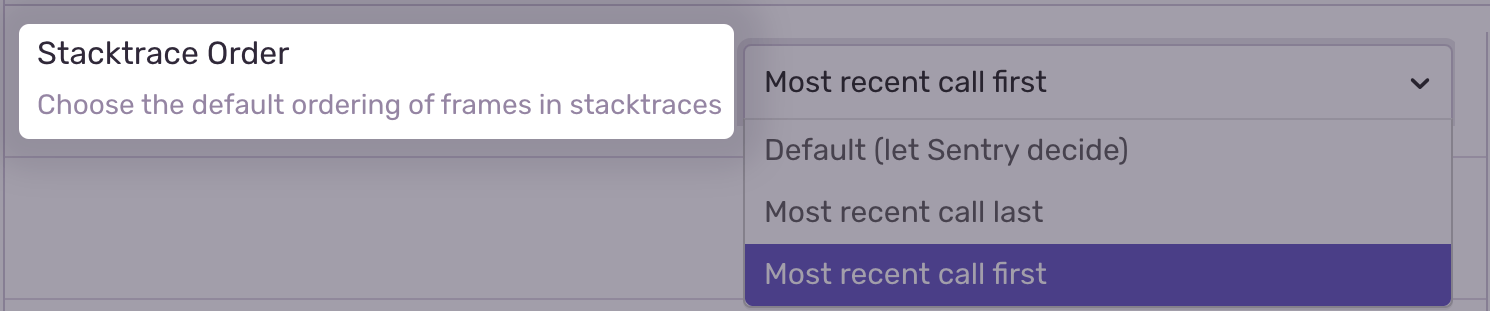
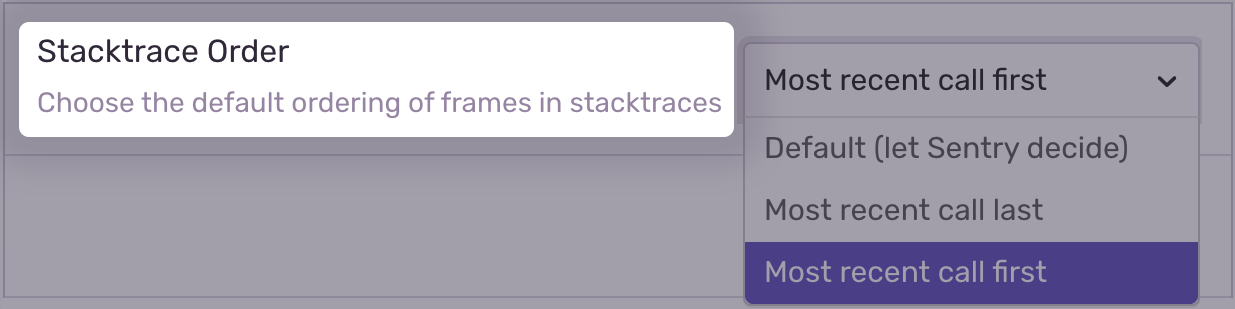
added screenshots for notifications section

diff --git a/src/collections/_documentation/workflow/user-settings.md b/src/collections/_documentation/workflow/user-settings.md
@@ -20,7 +20,7 @@ Change the name displayed next to your avatar by editing the *Name* field.
 
 Choose the default ordering of frames in stack traces. By default, this order is set to let Sentry decide. 
 
-[{% asset user-settings/us-sto.png alt="Stack trace order field in Account Details under User Settings" width="745" %}]({% asset user-settings/us-sto.png @path %})
+[{% asset user-settings/us-sto.png alt="Stack trace order field in Account Details under User Settings" width="617.5" %}]({% asset user-settings/us-sto.png @path %})
 
 ### Language
 
@@ -74,7 +74,7 @@ Use recovery codes to access your account if you lose your device and cannot rec
 
 A historical list of sessions, including First Seen and Last Seen timestamps, can be found under the Session History tab.
 
-[{% asset user-settings/us-shistory.png alt="Session History tab in Security under User Settings" width="927" %}]({% asset user-settings/us-shistory.png @path %})
+[{% asset user-settings/us-shistory.png alt="Session History tab in Security under User Settings" width="483" %}]({% asset user-settings/us-shistory.png @path %})
 
 # Notifications
 
@@ -84,38 +84,38 @@ The Notifications section includes options to customize alerts, email routing, w
 
 While Project Alerts are defined in *Project Settings*, you can enable *Send Me Alerts* to receive alerts sent to your teams and fine-tuning the ones you receive per project. 
 
-[{% asset user-settings/us-alert.png alt="Alerts field in Notifications under User Settings" width="" %}]({% asset user-settings/us-alert.png @path %})
+[{% asset user-settings/us-alert.png alt="Alerts field in Notifications under User Settings" width="570" %}]({% asset user-settings/us-alert.png @path %})
 
 ## Workflow Notifications
 
 Control workflow notifications like changes in issue assignment, resolution status, and comments by enabling *Send Me Workflow Notifications* and fine-tuning them per project. 
 
-[{% asset user-settings/us-work.png alt="Workflow selection in Notifications under User Settings" width="" %}]({% asset user-settings/us-work.png @path %})
+[{% asset user-settings/us-work.png alt="Workflow selection in Notifications under User Settings" width="776" %}]({% asset user-settings/us-work.png @path %})
 
 ## Email Routing
 
 Route email notifications to an alternative email address and keep your project notifications organized. 
 
-[{% asset user-settings/us-eroute.png alt="Email Routing field in Notifications under User Settings" width="" %}]({% asset user-settings/us-eroute.png @path %})
+[{% asset user-settings/us-eroute.png alt="Email Routing field in Notifications under User Settings" width="509.5" %}]({% asset user-settings/us-eroute.png @path %})
 
 ## Weekly Reports
 
 Reports are generated per project and sent once a week.  
 
-[{% asset user-settings/us-wrfield.png alt="Weekly Reports field in Notifications under User Settings" width="" %}]({% asset user-settings/us-wrfield.png @path %})
+[{% asset user-settings/us-wrfield.png alt="Weekly Reports field in Notifications under User Settings" width="552.5" %}]({% asset user-settings/us-wrfield.png @path %})
 
 The following report sample shows details on *Events Seen This Week*, *Events by Issue Type*, *Events by Project* and activity over time.
 
-[{% asset user-settings/us-ereport.png alt="Weekly Report email sample" width="" %}]({% asset user-settings/us-ereport.png @path %})
+[{% asset user-settings/us-ereport.png alt="Weekly Report email sample" width="631.5" %}]({% asset user-settings/us-ereport.png @path %})
 
 ## Deploy Notifications
 
 To keep track of deployment details like release version, environments and commit reviews, select *On* and choose an option from the dropdown next to each organization.
 
-[{% asset user-settings/us-deploy.png alt="Deploy Notifications selection in Notifications under User Settings" width="" %}]({% asset user-settings/us-deploy.png @path %})
+[{% asset user-settings/us-deploy.png alt="Deploy Notifications selection in Notifications under User Settings" width="841" %}]({% asset user-settings/us-deploy.png @path %})
 
 ## My Activity
 
 Updates regarding your user account actions, such as claiming unassigned issues previously resolved, can be turned into an email notification in this section.
 
-[{% asset user-settings/us-myact.png alt="My Activity selection in Notifications under User Settings" width="" %}]({% asset user-settings/us-myact.png @path %})
+[{% asset user-settings/us-myact.png alt="My Activity selection in Notifications under User Settings" width="563" %}]({% asset user-settings/us-myact.png @path %})
